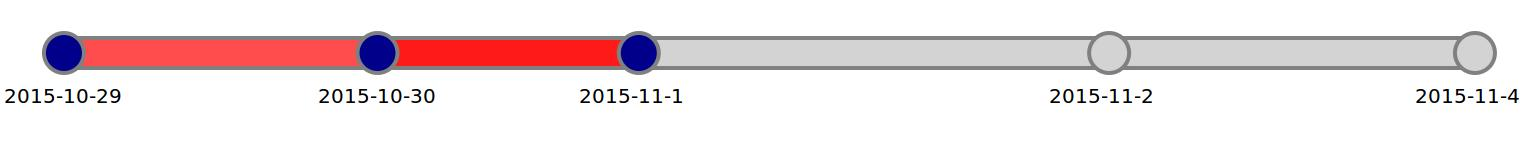
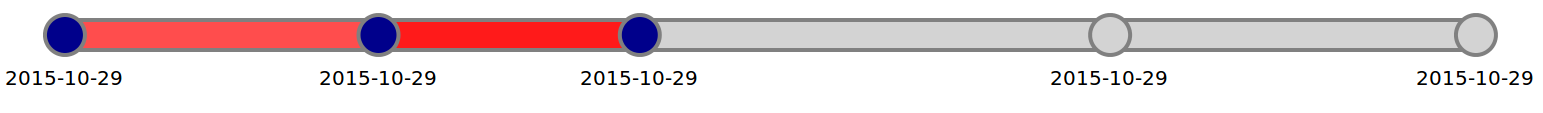
Add examples

diff --git a/timeline.js b/timeline.js
@@ -89,11 +89,4 @@ Timeline.prototype.render = function(container){
         .attr("x", function(d){ return xScale(d.time) - margin.right; })
         .attr("y", textProps.height)
         .text(function(d){ return d.comment; });
-  
-  g.selectAll("text")
-      .data(this.data)
-      .enter().append("text")
-        .attr("x", function(d){ return xScale(d.time) - margin.right; })
-        .attr("y", textProps.height + 20)
-        .text(function(d){ return d.comment2; });
 };
